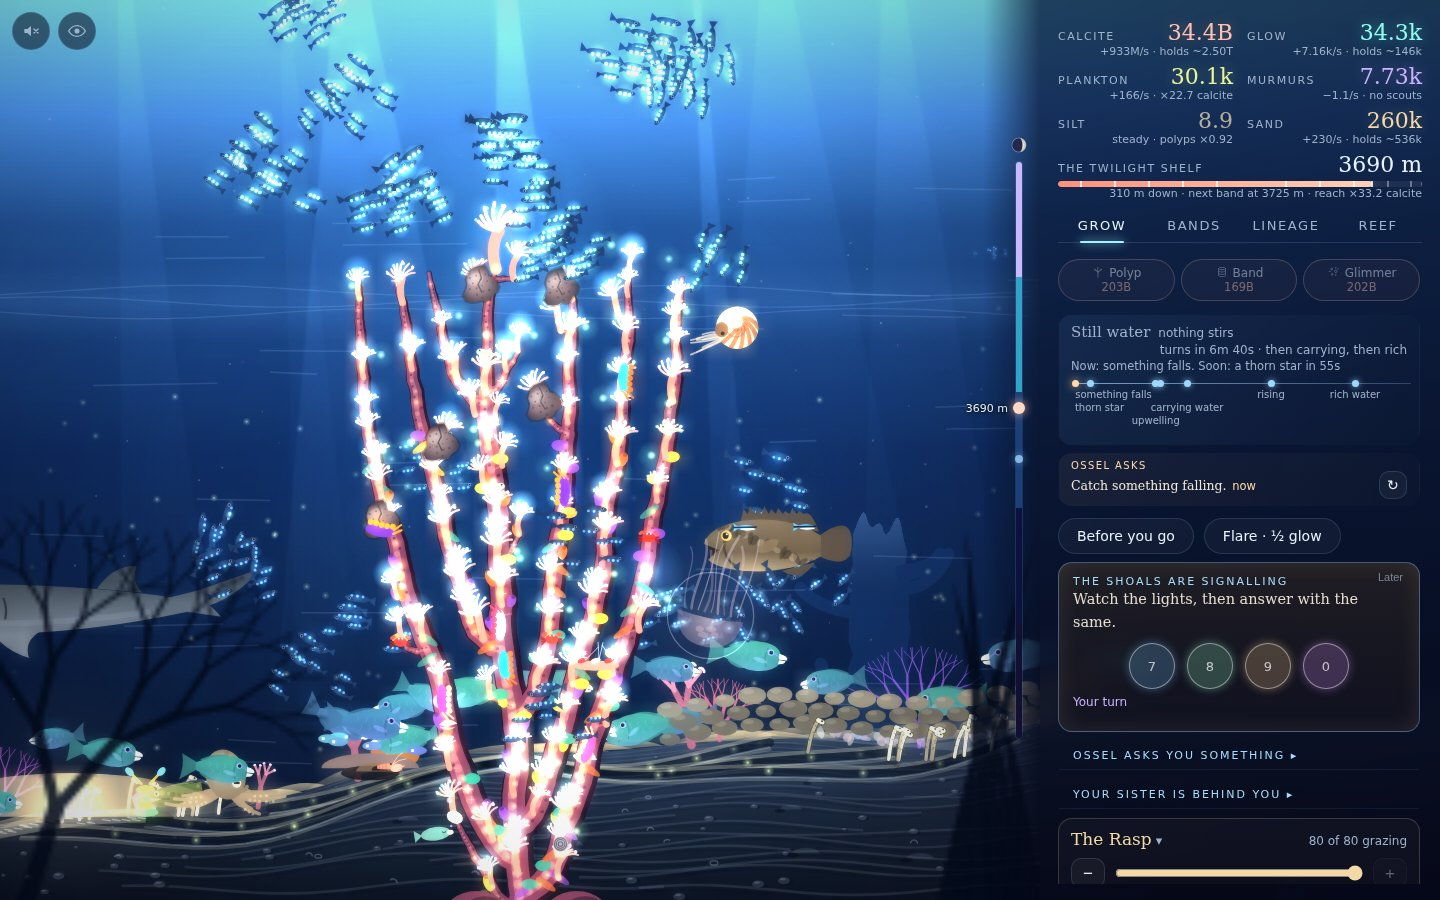
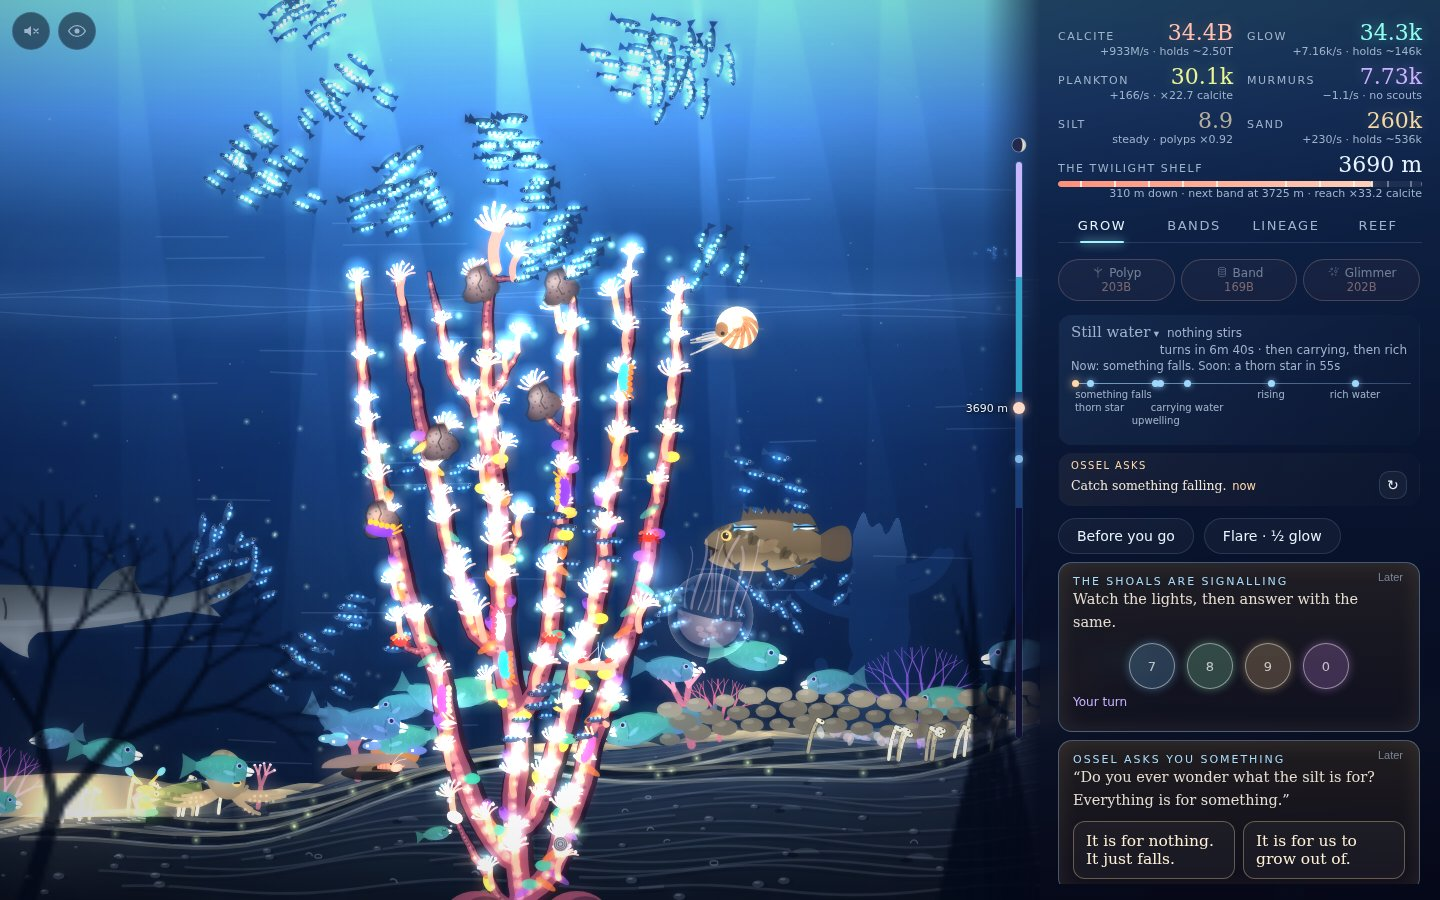
No chip strip for a timed choice beside the open one; README panel shots

diff --git a/src/game/ui/panel.ts b/src/game/ui/panel.ts
@@ -1924,7 +1924,9 @@ export function createPanel(host: HTMLElement, hooks: PanelHooks) {
     const open = [...grow.querySelectorAll<HTMLElement>(':scope > section:not([hidden]):not(.later)')]
       .map((sec) => ({ sec, label: sec.querySelector('.truce-kicker')?.textContent ?? '' }))
       .filter((x) => x.label);
-    waitBar.hidden = open.length < 2;
+    // Only worth a strip when choices the player opened by hand stack up (a timed one beside the open
+    // one is right there).
+    waitBar.hidden = open.filter((x) => !x.sec.classList.contains('timed')).length < 2;
     waitBar.innerHTML = '';
     for (const x of open) waitBar.append(button('wait-chip', x.label, () => x.sec.scrollIntoView({ behavior: smoothScroll(), block: 'start' })));
   }

diff --git a/docs/PROGRESS.md b/docs/PROGRESS.md
@@ -1198,3 +1198,4 @@ date, what landed, what is half-done, what's next.
 - A lost shoal (tap to take it in) was seven sparks in a bubble: seven small lanternfish milling in a loose knot, dark bodies with the rows of lights along their bellies flickering.
 - The epilogue garden's planted children floated in open water: each takes hold on a lump of old rubble from the reef's flank, lit faintly on top.
 - A lucky one's gold sparks (added light) faded out on the Sunlit sand by day as the visitor's mark did: over bright ground they get solid gold cores.
+- With a timed choice open beside the lasting one, the strip of chips naming them came back: it shows only when two choices the player opened by hand stack up. README panel and phone pictures retaken.
